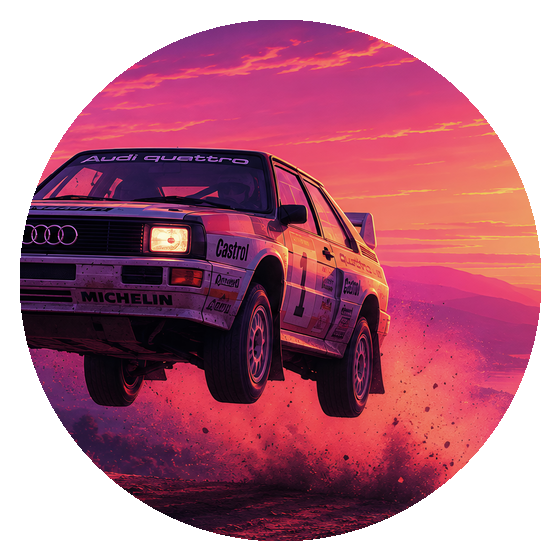
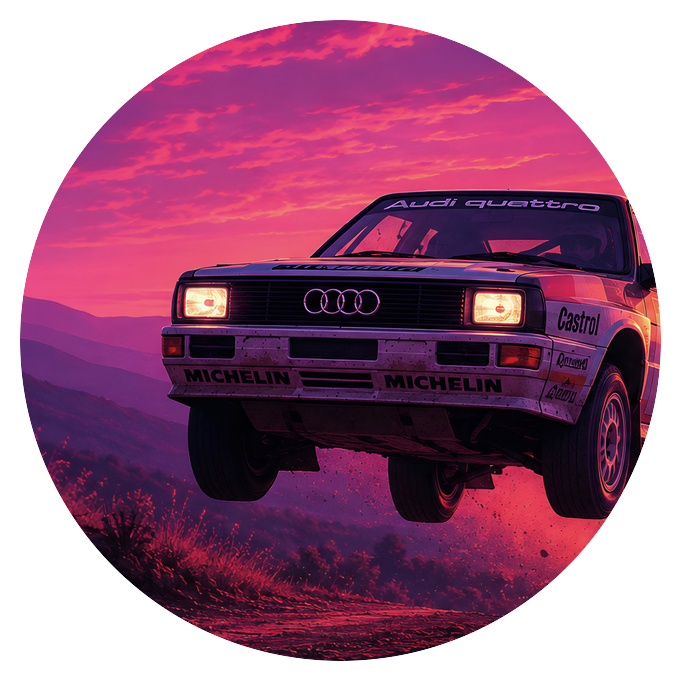
Plymouth orb: recentre car crop, bump to 720px
The car in 1-quattro.jpg sat left-of-centre in the orb. Crop window
shifted (-320-40 from centre at 720px) so the quattro is framed
properly; Lanczos resampling for sharper downscale at boot.

diff --git a/login-and-lock-screens.md b/login-and-lock-screens.md
@@ -213,10 +213,15 @@ pkexec bash -c 'plymouth-set-default-theme omarchy && limine-mkinitcpio'
 To regenerate the orb from a new wallpaper:
 
 ```bash
-magick "$(readlink -f ~/.local/state/omarchy/current/background)" -resize 560x560^ -gravity center -extent 560x560 /tmp/orb-base.png
-magick /tmp/orb-base.png \( -size 560x560 xc:none -fill white -draw 'circle 280,280 280,20' \) -alpha off -compose CopyOpacity -composite /tmp/orb.png
+# 720px orb (Plymouth scales it to 340px); adjust the crop offsets to centre the subject.
+# Negative offsets shift the crop window left/up from centre; check the result visually.
+magick "$(readlink -f ~/.local/state/omarchy/current/background)" -filter Lanczos -resize 720x720^ -gravity center -crop 720x720-320-40 +repage \
+  \( -size 720x720 xc:none -fill white -draw 'circle 360,360 360,40' \) -compose CopyOpacity -composite /tmp/orb.png
 pkexec bash -c 'cp /tmp/orb.png /usr/share/plymouth/themes/beautiful/orb.png && limine-mkinitcpio'
 ```
+
+Note: ImageMagick trims fully-transparent edges, so the saved file may be slightly smaller
+than 720×720 — harmless. The current orb (from `1-quattro.jpg`) uses `-320-40` to centre the car.
 
 To disable autologin and see the SDDM login on every boot (you will then type
 two passwords: disk + user):
